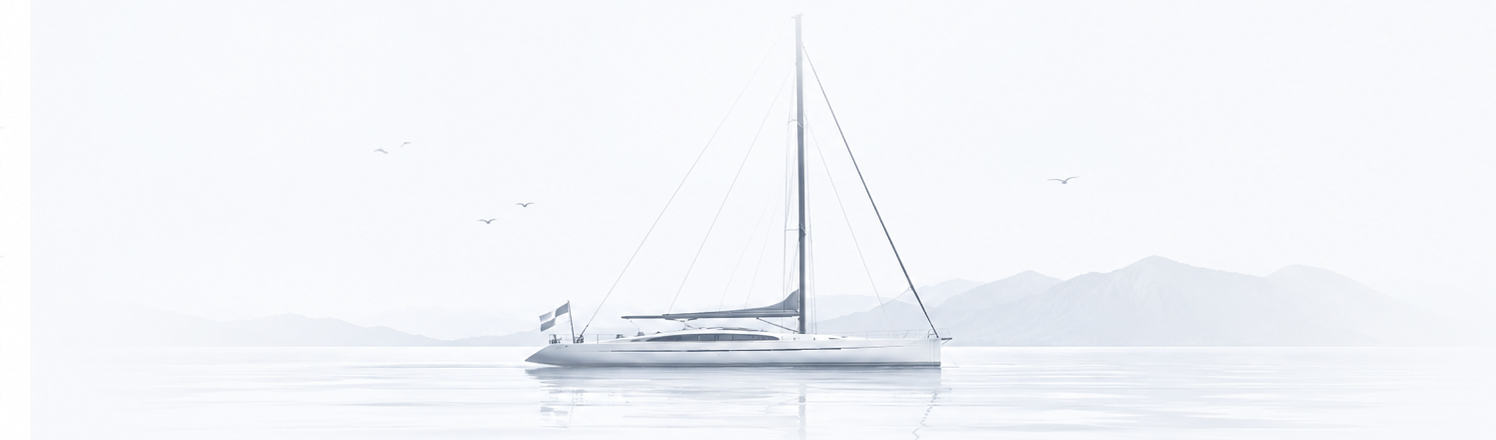
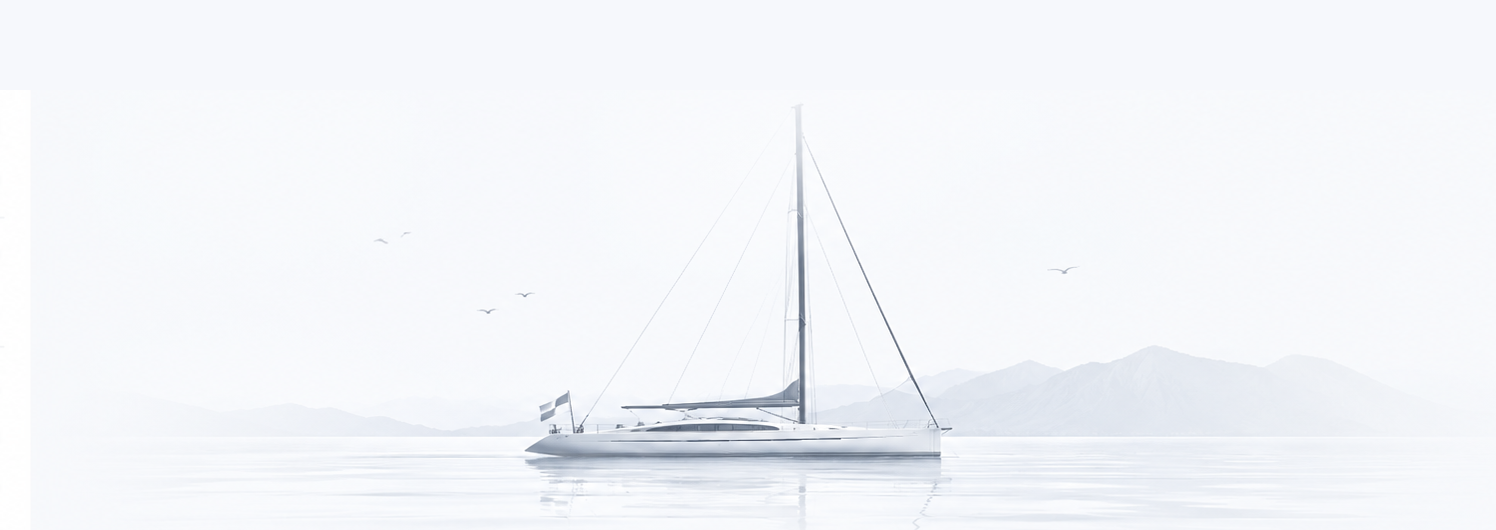
Give the tasks empty yacht room above the mast.
The illustration is contained in the card so the top of the boat stays visible.

diff --git a/src/index.css b/src/index.css
@@ -3379,11 +3379,10 @@ html[data-theme='dark'] .board-modern {
 }
 
 .tasks-empty-art {
-  width: min(100%, 58rem);
-  height: auto;
-  max-height: min(46vh, 28rem);
+  width: min(100%, 56rem);
+  height: min(40vh, 24rem);
   object-fit: contain;
-  object-position: center bottom;
+  object-position: center center;
   margin: 0 0 0.2rem;
   pointer-events: none;
   user-select: none;
